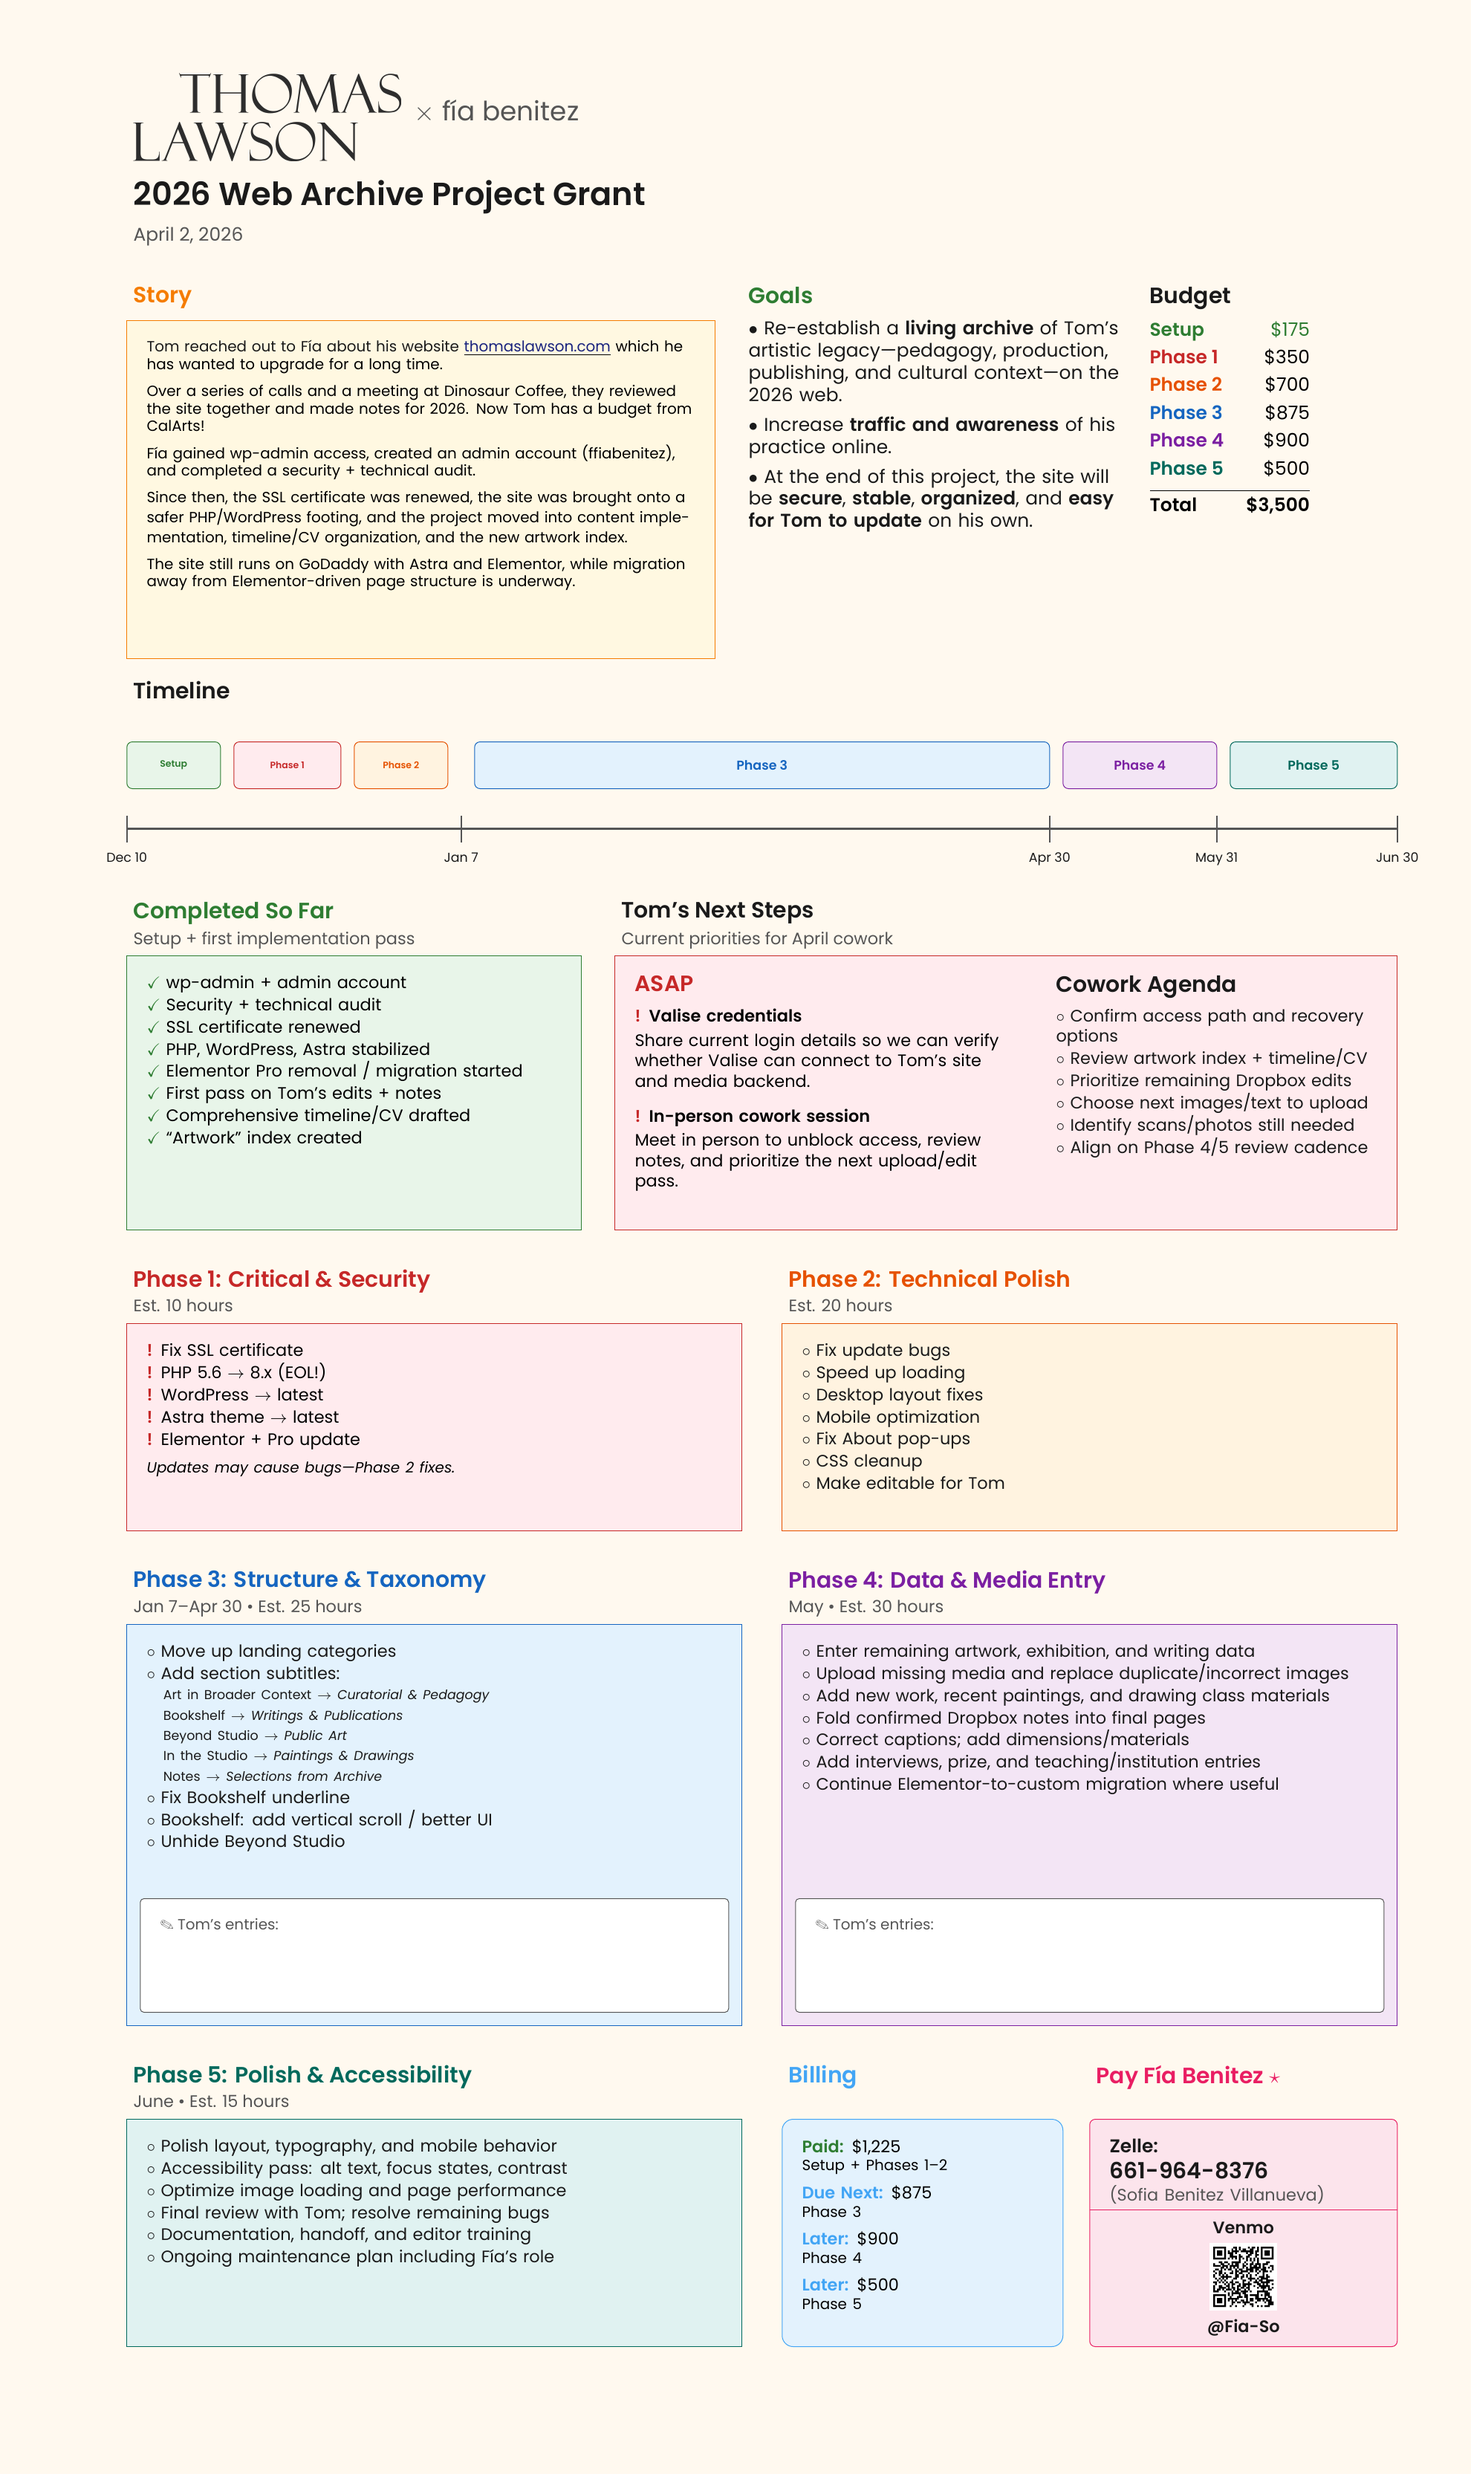
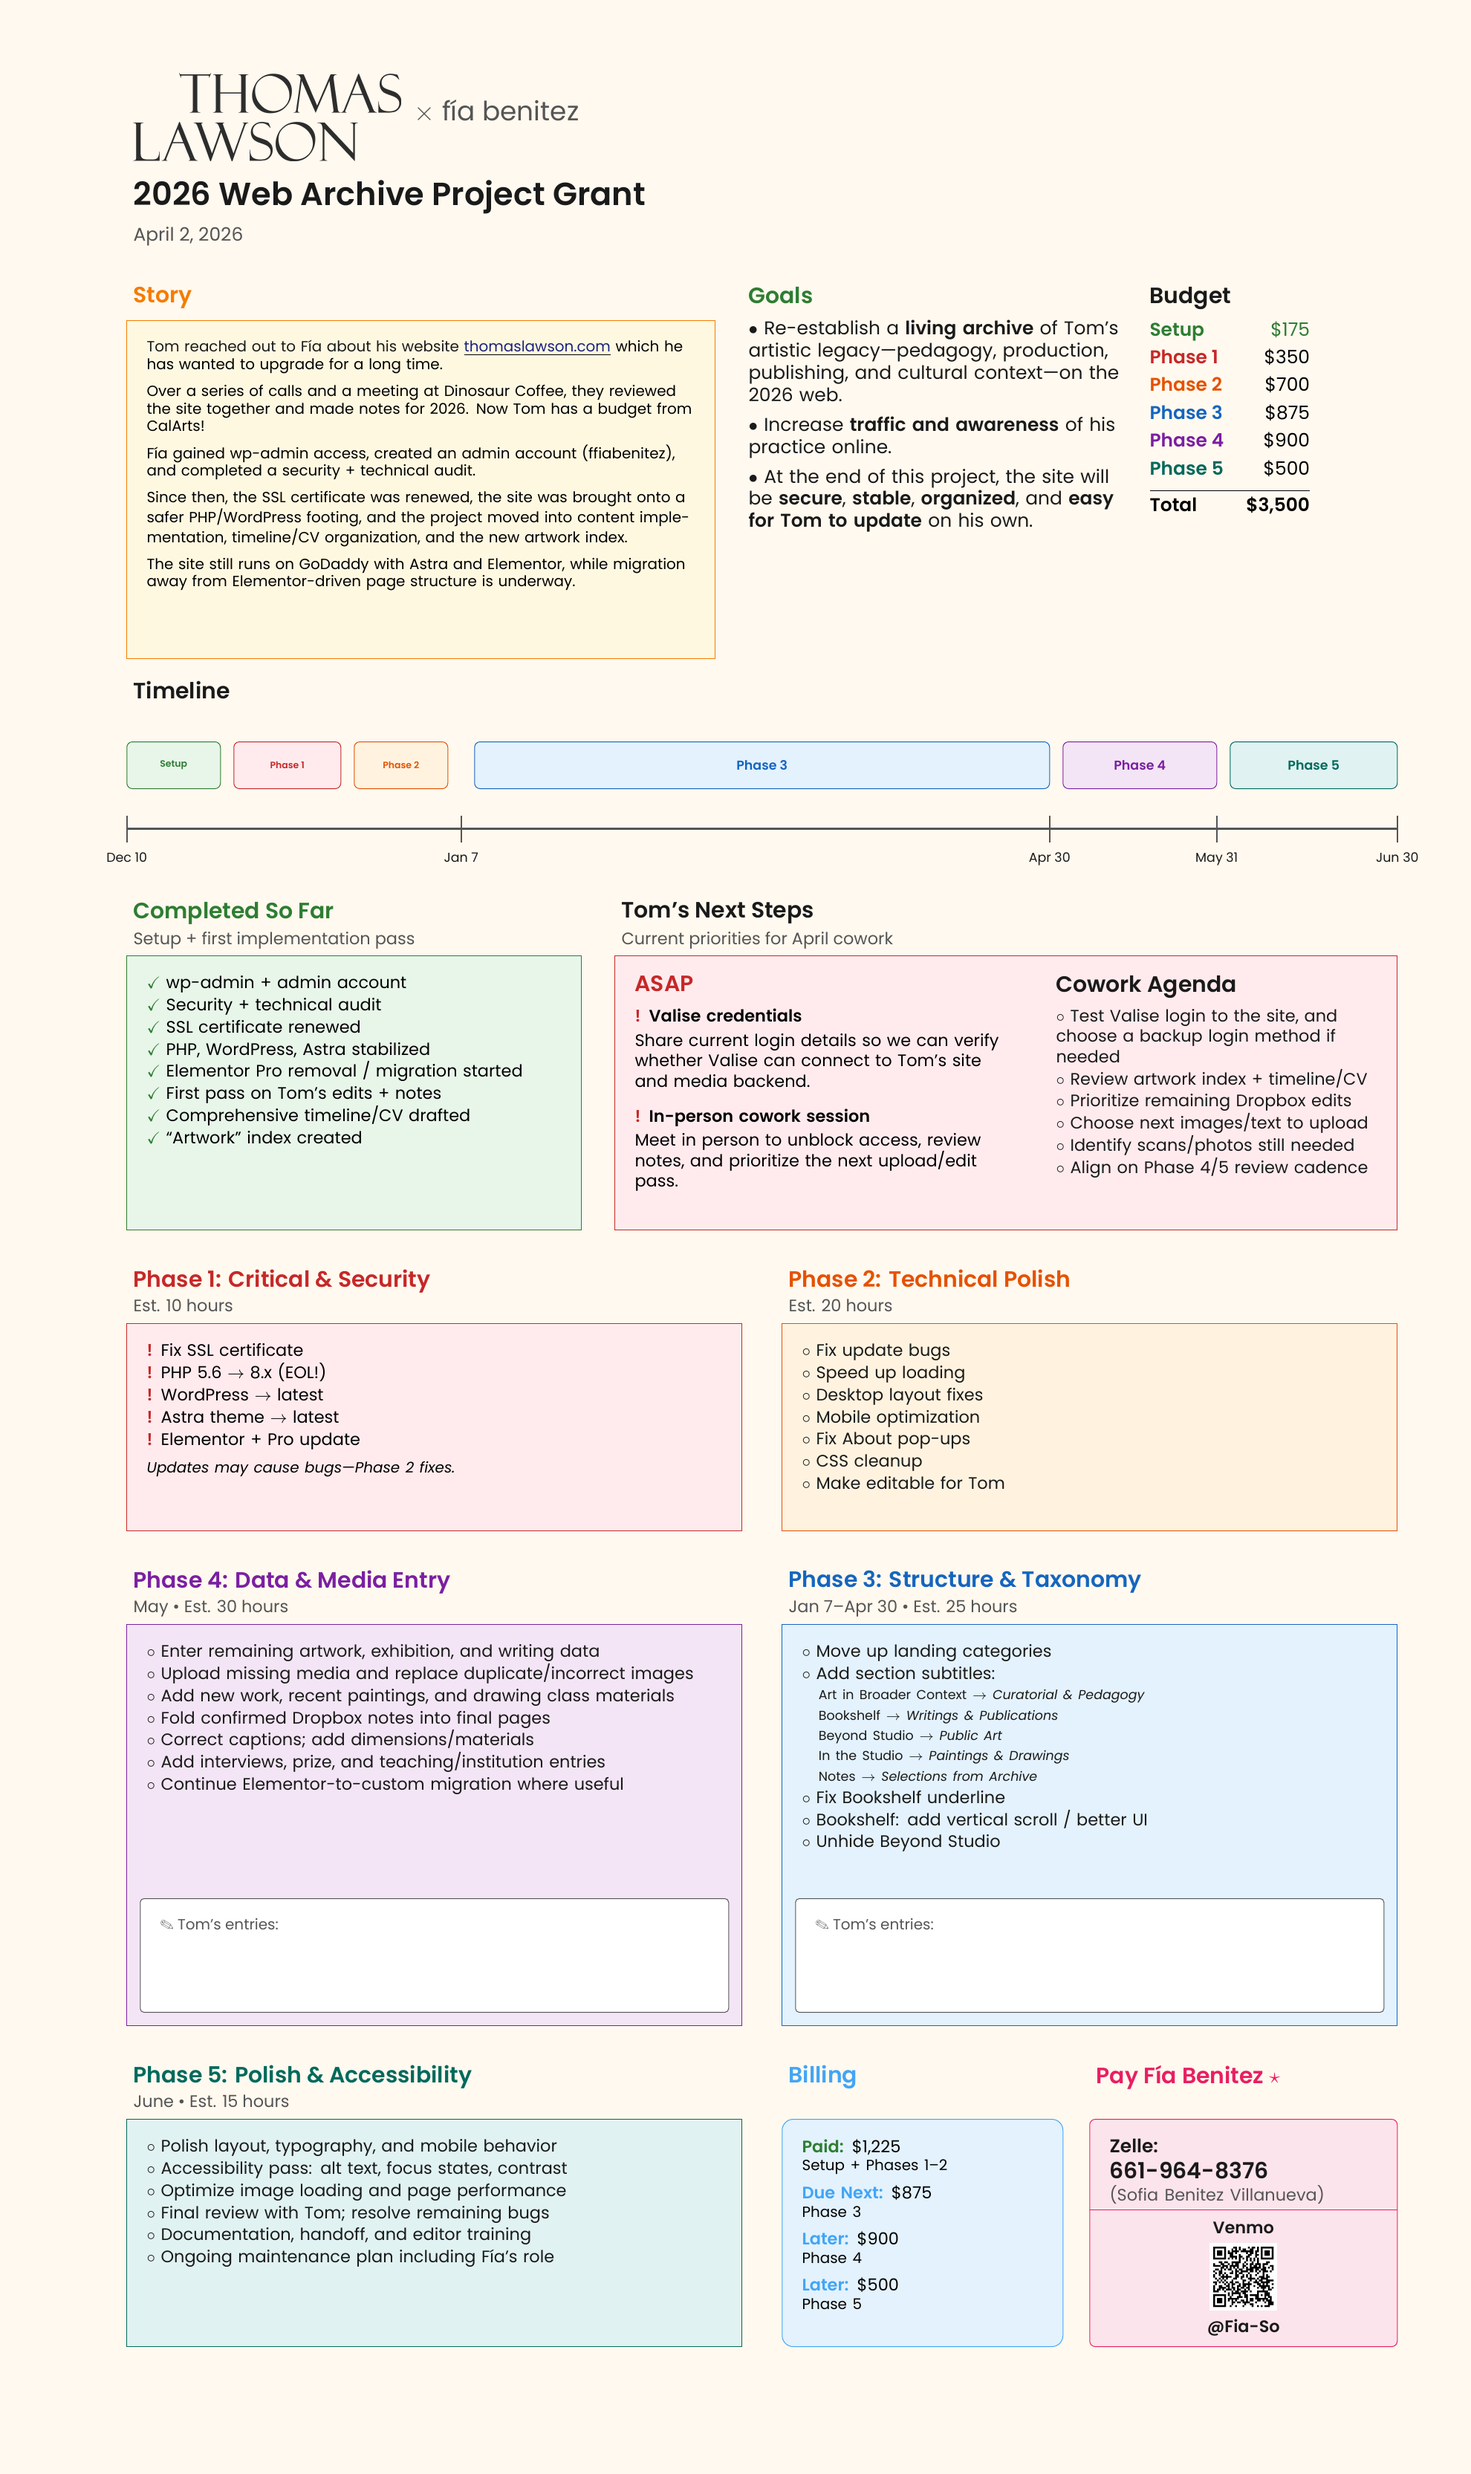
Update Thomas Lawson website report

Changed region(s): [[0.0924, 0.6246, 0.4621, 0.7495], [0.5237, 0.6246, 0.8934, 0.7495], [0.7086, 0.406, 0.9242, 0.4685]]

diff --git a/reports/thomaslawson/thomaslawson-website-report-v2.tex b/reports/thomaslawson/thomaslawson-website-report-v2.tex
@@ -182,7 +182,7 @@ Meet in person to unblock access, review notes, and prioritize the next upload/e
 % Right column of TODO - cowork agenda
 \node[anchor=north west, font=\large\bfseries] at (6.9, 6.9) {Cowork Agenda};
 \node[anchor=north west, text width=2.5in, font=\small] at (6.9, 7.15) {%
-$\circ$ Confirm access path and recovery options\\[1pt]
+$\circ$ Test Valise login to the site, and choose a backup login method if needed\\[1pt]
 $\circ$ Review artwork index + timeline/CV\\[1pt]
 $\circ$ Prioritize remaining Dropbox edits\\[1pt]
 $\circ$ Choose next images/text to upload\\[1pt]
@@ -218,10 +218,10 @@ $\circ$ Make editable for Tom
 };
 
 % === PHASE 3 (y=11.95, left bottom) ===
-\node[anchor=north west, font=\large\bfseries, text=phase3] at (0, 11.35) {Phase 3: Structure \& Taxonomy};
-\node[anchor=north west, font=\small, text=graytext] at (0, 11.57) {Jan 7--Apr 30 \textbullet\ Est. 25 hours};
-\draw[phase3, fill=phase3bg] (0, 11.8) rectangle (4.6, 14.8);
-\node[anchor=north west, text width=4.6in, font=\small] at (0.1, 11.9) {%
+\node[anchor=north west, font=\large\bfseries, text=phase3] at (4.9, 11.35) {Phase 3: Structure \& Taxonomy};
+\node[anchor=north west, font=\small, text=graytext] at (4.9, 11.57) {Jan 7--Apr 30 \textbullet\ Est. 25 hours};
+\draw[phase3, fill=phase3bg] (4.9, 11.8) rectangle (9.5, 14.8);
+\node[anchor=north west, text width=4.4in, font=\small] at (5.0, 11.9) {%
 $\circ$ Move up landing categories\\[1pt]
 $\circ$ Add section subtitles:\\[0pt]
 \quad{\scriptsize Art in Broader Context $\rightarrow$ \textit{Curatorial \& Pedagogy}}\\[0pt]
@@ -234,14 +234,14 @@ $\circ$ Bookshelf: add vertical scroll / better UI\\[1pt]
 $\circ$ Unhide Beyond Studio
 };
 % Tom's entries whitespace area
-\draw[graytext, fill=white, rounded corners=2pt] (0.1, 13.85) rectangle (4.5, 14.7);
-\node[anchor=north west, font=\footnotesize, text=graytext] at (0.2, 13.95) {\pencil\ Tom's entries:};
+\draw[graytext, fill=white, rounded corners=2pt] (5.0, 13.85) rectangle (9.4, 14.7);
+\node[anchor=north west, font=\footnotesize, text=graytext] at (5.1, 13.95) {\pencil\ Tom's entries:};
 
 % === PHASE 4 (y=11.95, right bottom) ===
-\node[anchor=north west, font=\large\bfseries, text=phase4] at (4.9, 11.35) {Phase 4: Data \& Media Entry};
-\node[anchor=north west, font=\small, text=graytext] at (4.9, 11.57) {May \textbullet\ Est. 30 hours};
-\draw[phase4, fill=phase4bg] (4.9, 11.8) rectangle (9.5, 14.8);
-\node[anchor=north west, text width=4.4in, font=\small] at (5.0, 11.9) {%
+\node[anchor=north west, font=\large\bfseries, text=phase4] at (0, 11.35) {Phase 4: Data \& Media Entry};
+\node[anchor=north west, font=\small, text=graytext] at (0, 11.57) {May \textbullet\ Est. 30 hours};
+\draw[phase4, fill=phase4bg] (0, 11.8) rectangle (4.6, 14.8);
+\node[anchor=north west, text width=4.5in, font=\small] at (0.1, 11.9) {%
 $\circ$ Enter remaining artwork, exhibition, and writing data\\[1pt]
 $\circ$ Upload missing media and replace duplicate/incorrect images\\[1pt]
 $\circ$ Add new work, recent paintings, and drawing class materials\\[1pt]
@@ -251,8 +251,8 @@ $\circ$ Add interviews, prize, and teaching/institution entries\\[1pt]
 $\circ$ Continue Elementor-to-custom migration where useful
 };
 % Tom's entries whitespace area
-\draw[graytext, fill=white, rounded corners=2pt] (5.0, 13.85) rectangle (9.4, 14.7);
-\node[anchor=north west, font=\footnotesize, text=graytext] at (5.1, 13.95) {\pencil\ Tom's entries:};
+\draw[graytext, fill=white, rounded corners=2pt] (0.1, 13.85) rectangle (4.5, 14.7);
+\node[anchor=north west, font=\footnotesize, text=graytext] at (0.2, 13.95) {\pencil\ Tom's entries:};
 
 % === PHASE 5 (left column, same width as others) ===
 \node[anchor=north west, font=\large\bfseries, text=phase5] at (0, 15.05) {Phase 5: Polish \& Accessibility};
